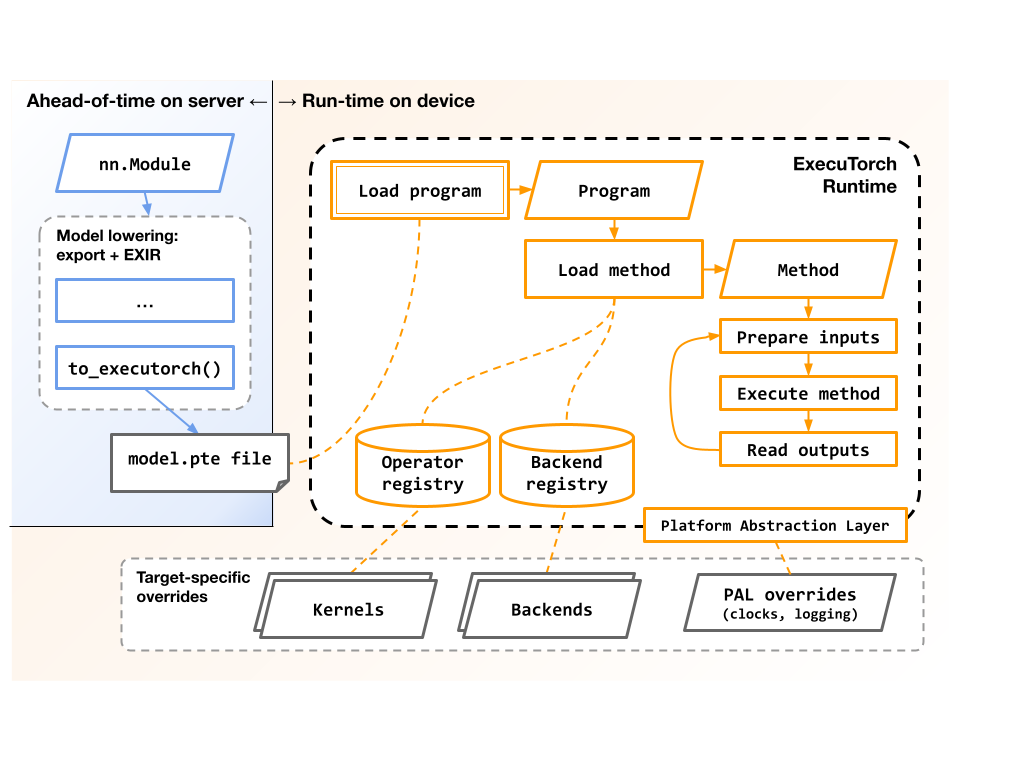
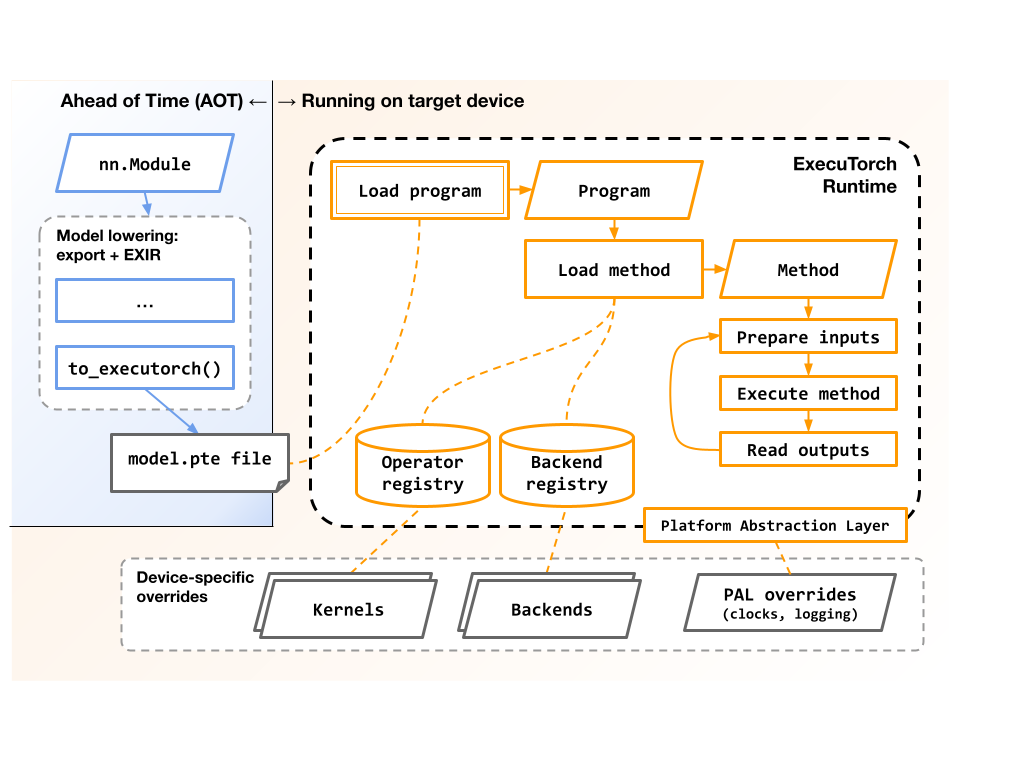
Address some runtime-overview.md comments (#646)
Summary:
Pull Request resolved: https://github.com/pytorch/executorch/pull/646

Address some post-land comments on D49852127.

Reviewed By: mergennachin

Differential Revision: D49973657

fbshipit-source-id: 588ec11eacbfee8610d617e1019e00fb95d2e736

Changed region(s): [[0.2812, 0.125, 0.5312, 0.1562], [0.0312, 0.125, 0.25, 0.1562], [0.125, 0.7188, 0.25, 0.7812]]

diff --git a/docs/source/runtime-overview.md b/docs/source/runtime-overview.md
@@ -5,13 +5,14 @@ ExecuTorch program files on edge devices like smartphones, wearables, and
 embedded devices. The code for the main execution API is under
 [`executorch/runtime/executor/`](https://github.com/pytorch/executorch/tree/main/runtime/executor).
 
-Before reading this document we recommend that you read [How Does ExecuTorch
-Work](intro-how-it-works.md).
+Before reading this document we recommend that you read [How ExecuTorch
+Works](intro-how-it-works.md).
 
 At the highest level, the ExecuTorch runtime is responsible for:
 
 * Loading binary `.pte` program files that were generated by the
-  `to_executorch()` step of the model-lowering process.
+  [`to_executorch()`](https://deploy-preview-646--resplendent-gnome-14e531.netlify.app/tutorials/export-to-executorch-tutorial)
+  step of the model-lowering process.
 * Executing the series of instructions that implement a lowered model.
 
 Note that as of late 2023, the ExecuTorch runtime only supports model inference,
